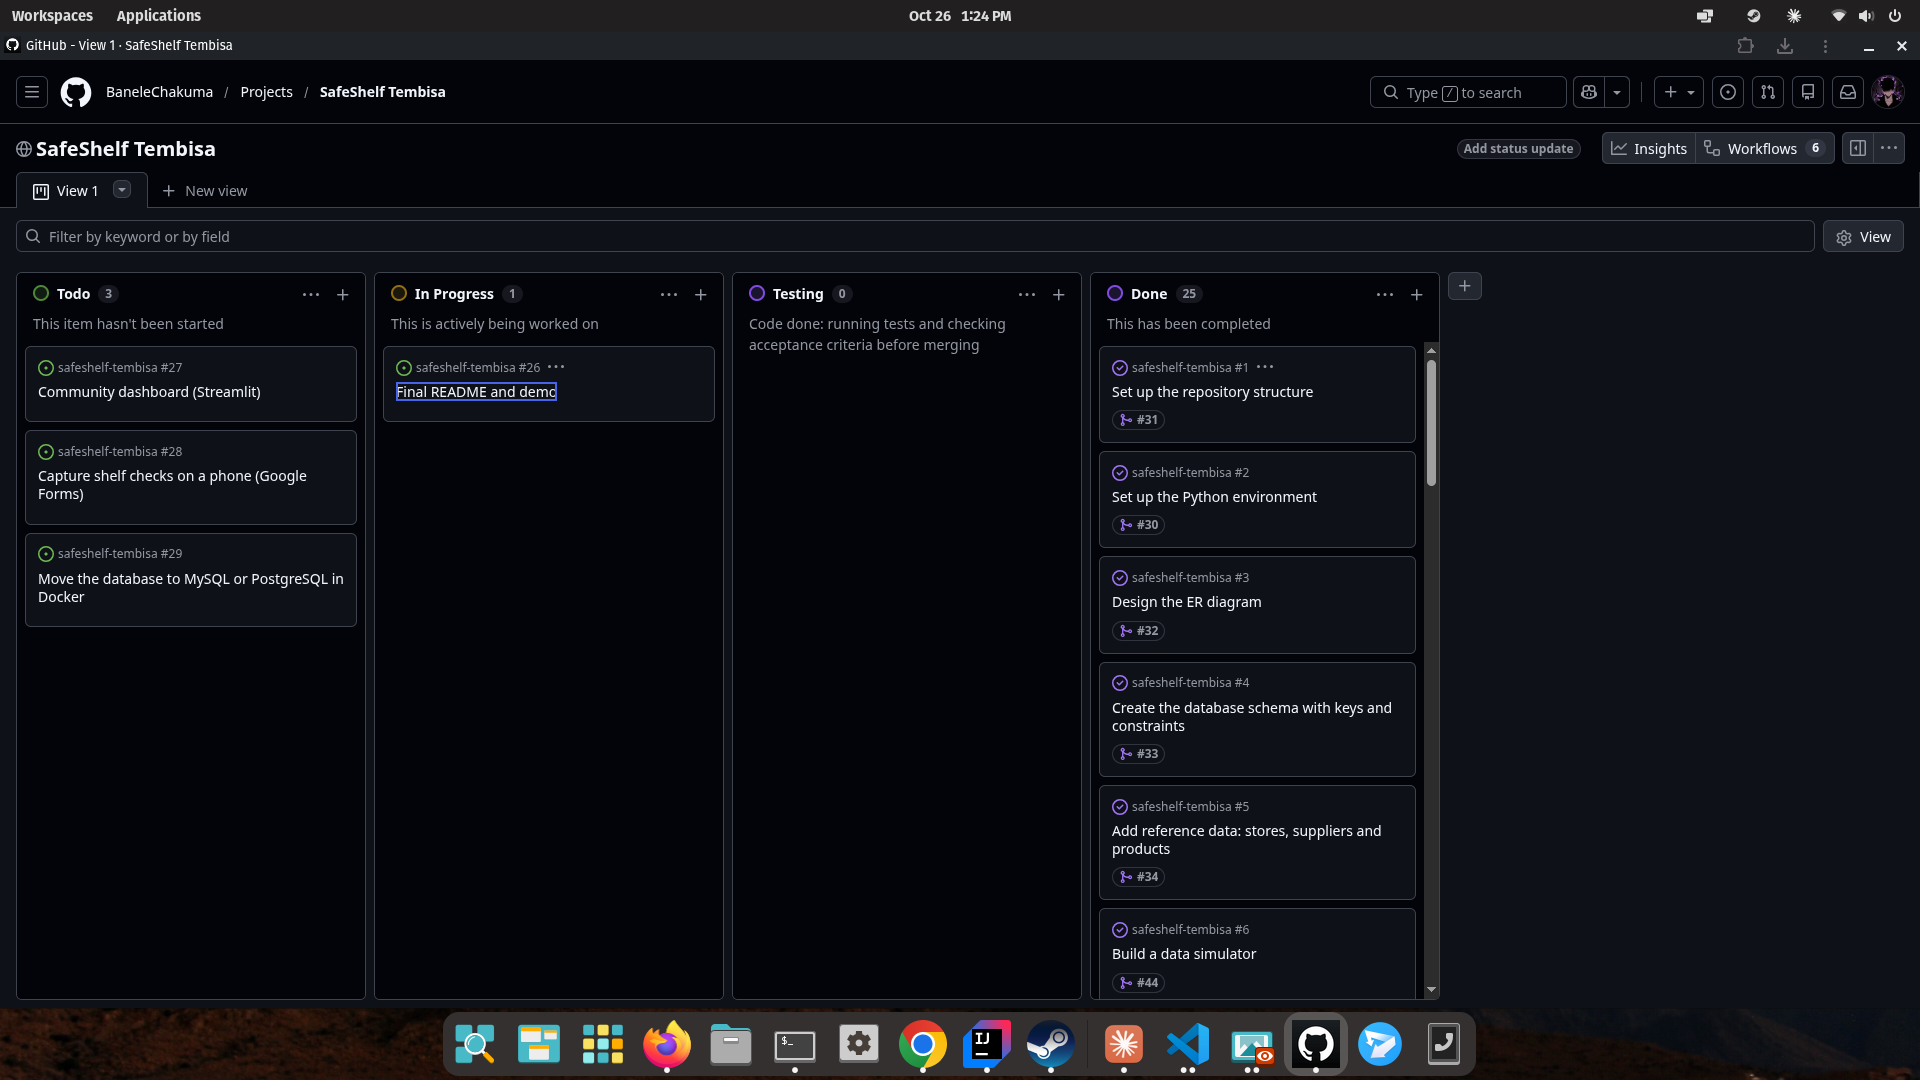
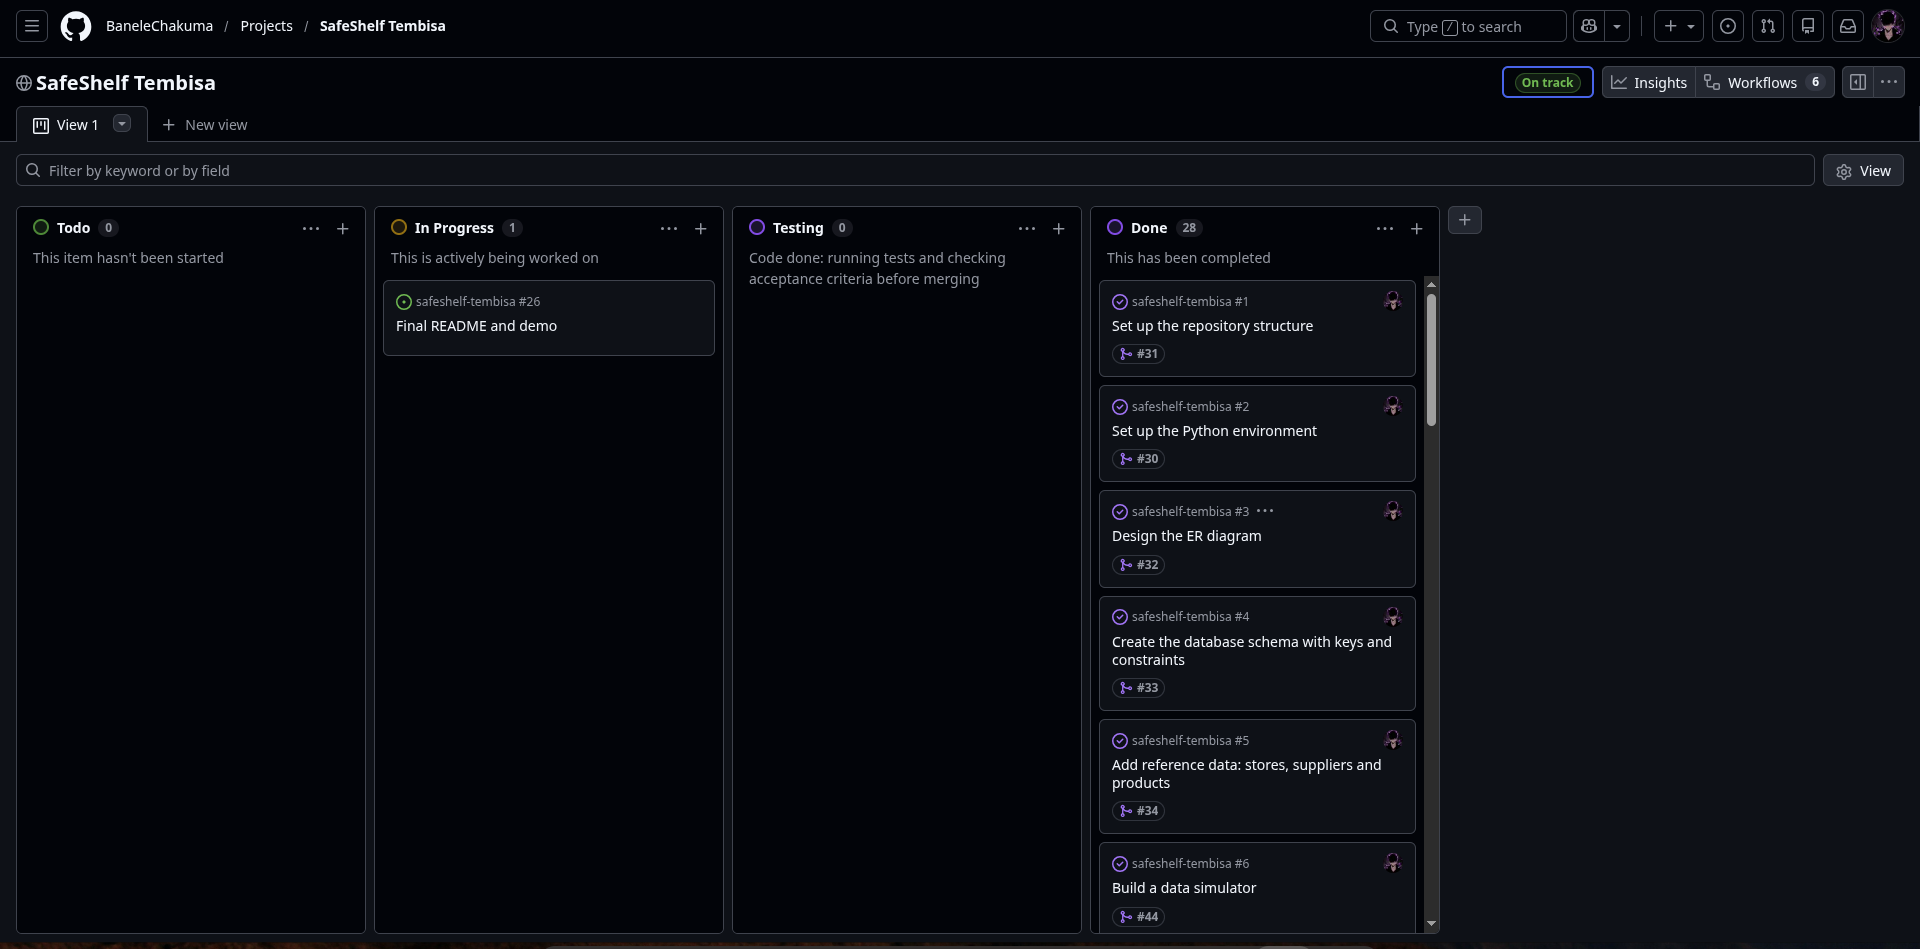
Explain the architecture step by step and refresh the board screenshot
The architecture diagram had every file and view as its own box, which was
hard to follow. It now reads top to bottom as the five numbered steps, and
the text under it explains each step in the same order, with why it matters.

The board screenshot is replaced with a current one, and its caption says
the milestones were used to simulate deadlines. The demo outline and the
demo script are removed, with their rows in the README tables.

Part of #26.

diff --git a/README.md b/README.md
@@ -29,43 +29,49 @@ A data pipeline checks and cleans this data, loads it into a SQL database and pr
 
 ## Architecture
 
+Four CSV files arrive every day — deliveries, shelf checks, community reports and truck trip
+updates. Each one goes through the same five steps before it reaches a report: **extract, clean,
+validate, load, report**. The diagram shows that flow left to right; the steps below explain each
+box.
+
 ```mermaid
-flowchart LR
-    subgraph Sources["Daily CSV files (simulated)"]
-        A["Deliveries"]
-        B["Shelf checks"]
-        C["Community reports"]
-        D["Truck trip updates"]
-    end
-    Sources --> E["Extract<br/>new files only"]
-    E --> F["Clean<br/>names, dates, product aliases,<br/>phone numbers removed"]
-    F --> G["Validate<br/>data quality rules"]
-    G -- "bad rows, with the reason" --> R["data/rejected/"]
-    G --> L["Load<br/>one transaction per file"]
-    L --> DB[("PostgreSQL<br/>+ pipeline_runs")]
-    DB --> V1["committee_view"]
-    DB --> V2["store_view"]
-    DB --> V3["community_view"]
-    DB --> V4["police_view"]
-    V1 --> DR["Daily report<br/>reports/"]
-    V2 --> DR
-    V3 --> DR
-    V4 --> PR["Police report<br/>reports/police/"]
+flowchart TD
+    Sources["Daily CSV files, simulated:<br/>deliveries, shelf checks,<br/>community reports, truck trips"]
+    Extract["1. Extract<br/>only new files"]
+    Clean["2. Clean<br/>dates, product names,<br/>phone numbers removed"]
+    Validate["3. Validate<br/>against data quality rules"]
+    Rejected["data/rejected/<br/>bad rows, with the reason"]
+    Load["4. Load<br/>one transaction per file"]
+    DB[("PostgreSQL<br/>pipeline_runs table")]
+    Views["A view per audience:<br/>committee, store,<br/>community, police"]
+    DailyReport["5. Daily report<br/>reports/"]
+    PoliceReport["5. Police report<br/>reports/police/, police only"]
+
+    Sources --> Extract --> Clean --> Validate
+    Validate -- "bad row" --> Rejected
+    Validate --> Load --> DB --> Views
+    Views --> DailyReport
+    Views --> PoliceReport
 ```
 
-- **Extract** picks up only files that aren't in the `pipeline_runs` table yet, so running it
-  twice never loads anything twice.
-- **Clean** writes every value the same way: dates as `YYYY-MM-DD`, product aliases like
-  "BREAD WHITE" become one product ID. It also removes phone and ID numbers from community reports.
-- **Validate** checks each row against the [data quality rules](docs/PLAN.md#data-quality-rules).
-  Bad rows go to `data/rejected/` with the reason, so they can be fixed and sent again.
-- **Load** saves a file's rows and its `pipeline_runs` record in one transaction, so either both
-  are saved or neither is.
-- **Report**: each report reads from a view made for its audience, so it can only use what that
-  audience may see. Truck locations exist only in `police_view`, and they're removed after 30 days.
+1. **Extract** — only picks up files that aren't already recorded in the `pipeline_runs` table.
+   That's what makes it safe to run the pipeline twice: the second run loads nothing new.
+2. **Clean** — makes every value consistent. Dates all become `YYYY-MM-DD`, and product aliases
+   like "BREAD WHITE" collapse to one product ID. It also strips phone and ID numbers out of
+   community reports before anything is stored.
+3. **Validate** — checks each row against the [data quality rules](docs/PLAN.md#data-quality-rules).
+   A row that fails doesn't get silently dropped: it's written to `data/rejected/` along with the
+   reason it failed, so it can be corrected and resent.
+4. **Load** — writes a file's rows and its `pipeline_runs` record together, in one database
+   transaction. Either both are saved, or neither is — there's no in-between state where a file
+   looks loaded but its rows aren't there.
+5. **Report** — each report is generated from a database view built for one audience, so it
+   physically can't see data meant for someone else. Truck locations, for example, only exist in
+   `police_view`, and are deleted after 30 days.
 
-The tables, keys and relationships are in the **[ER diagram (docs/DATA_MODEL.md)](docs/DATA_MODEL.md)**,
-and who can see what is in [DATA_GOVERNANCE.md](docs/DATA_GOVERNANCE.md).
+For the underlying tables and relationships, see the
+**[ER diagram](docs/DATA_MODEL.md)**. For who's allowed to see what, see
+**[DATA_GOVERNANCE.md](docs/DATA_GOVERNANCE.md)**.
 
 ## How to run
 
@@ -248,8 +254,9 @@ goes to `reports/police/` and isn't shown here.
 
 ## Screenshots
 
-The project board: every user story and task is an issue, and each card moves from *Todo* to
-*Done* through *In Progress* and *Testing*.
+The project board kept work organised, and milestones were used to simulate deadlines: every user
+story and task is an issue, and each card moves from *Todo* to *Done* through *In Progress* and
+*Testing*.
 
 ![The SafeShelf Tembisa project board on GitHub](docs/images/board.png)
 
@@ -289,7 +296,6 @@ Python 3 · PostgreSQL 16 / SQL · Docker · psycopg · Streamlit · pytest · G
 | `src/safeshelf/` | The pipeline's Python package: extract, validate, clean, load, reports |
 | `tests/` | Unit, acceptance and end-to-end tests — see [the testing guide](docs/TESTING.md) |
 | `setup/` | One-off scripts for setting up the GitHub repo and project board |
-| `scripts/` | `demo.sh`, the live part of the demo |
 
 ## Project docs
 
@@ -300,7 +306,6 @@ Python 3 · PostgreSQL 16 / SQL · Docker · psycopg · Streamlit · pytest · G
 | [Data model](docs/DATA_MODEL.md) | ER diagram, tables, keys and constraints |
 | [Data governance](docs/DATA_GOVERNANCE.md) | Privacy (POPIA): who can see what, and for how long |
 | [Testing](docs/TESTING.md) | How to run the tests, and what each one expects from the code |
-| [Demo](docs/DEMO.md) | The 5-minute demo: outline, what to show, and likely questions |
 | [Google Form](docs/GOOGLE_FORM.md) | Setting up the Form for shelf checks from a phone, and importing its responses |
 
 ## What I learned
